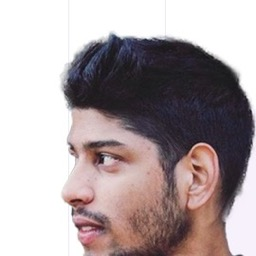
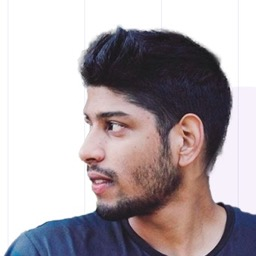
fix(nps): retratos reenquadrados e Vasco Montez com foto (v76.70)
Germano, Mike, Gustavo, Renan e Tiago tinham recortes fechados demais e
descaídos — cara colada à borda do círculo. Refeitos com mais margem e
a cabeça centrada. Vasco Montez ganha retrato (foto enviada pelo André).

Claude-Session: https://claude.ai/code/session_019wj6jurrNQDE9ykmsFMojU

diff --git a/src/lib/changelog.ts b/src/lib/changelog.ts
@@ -13,6 +13,15 @@ export type ChangelogEntry = {
 
 export const CHANGELOG: ChangelogEntry[] = [
   {
+    version: "76.70",
+    date: "2026-08-13",
+    title: "Retratos do inquérito reenquadrados — e o Vasco entra na lista",
+    highlights: [
+      "**🧑💼 Vasco Montez passa a ter cara** na secção «Equipa» do inquérito.",
+      "**🔍 Germano, Mike, Gustavo, Renan e Tiago reenquadrados.** Os recortes estavam demasiado fechados e puxados para baixo — a cara chegava às bordas do círculo e o queixo ficava cortado. Todos foram refeitos com mais margem e a cabeça ao centro.",
+    ],
+  },
+  {
     version: "76.69",
     date: "2026-08-13",
     title: "As caras da equipa no inquérito — e a escala a falar a língua da pergunta",

diff --git a/src/lib/nps-questions.ts b/src/lib/nps-questions.ts
@@ -237,7 +237,11 @@ const TEAM_OPTIONS: NpsMultiOption[] = [
     label: { pt: "Cylas Tee", en: "Cylas Tee" },
     photo: "/team/avatar/cylas.jpg",
   },
-  { value: "vasco-m", label: { pt: "Vasco Montez", en: "Vasco Montez" } },
+  {
+    value: "vasco-m",
+    label: { pt: "Vasco Montez", en: "Vasco Montez" },
+    photo: "/team/avatar/vasco-m.jpg",
+  },
   { value: "joao-c", label: { pt: "João Có", en: "João Có" } },
   {
     value: "tiago-s",
